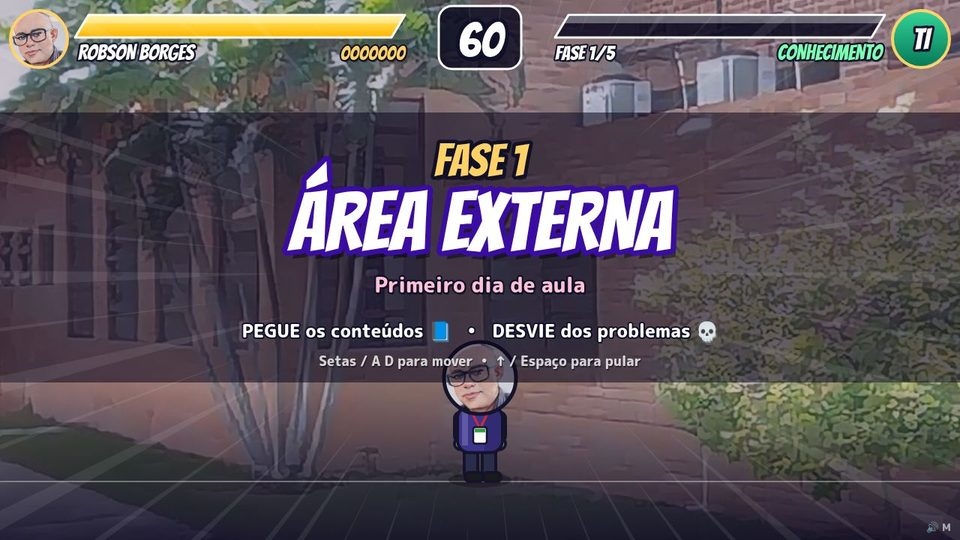
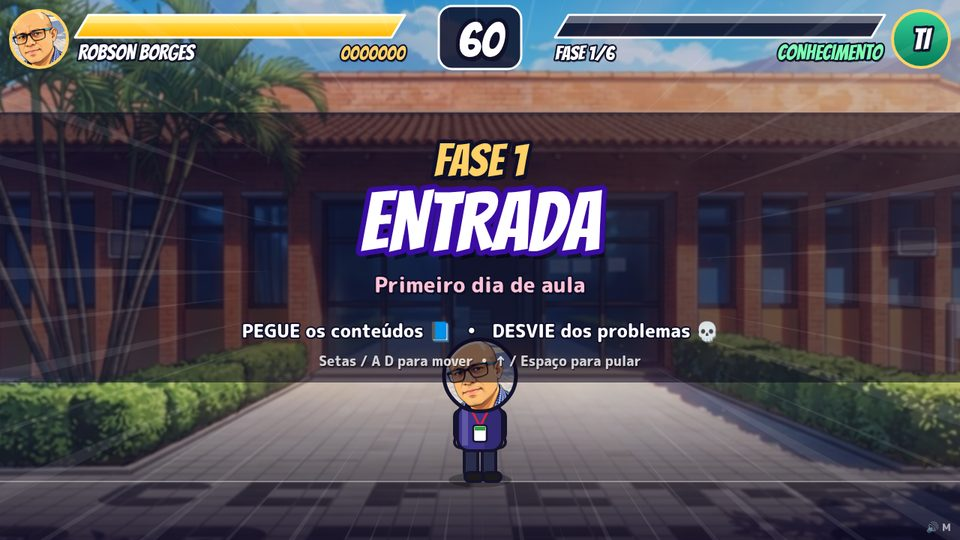
Atualiza o tutorial para a versão 2 do jogo
- Novas capturas de tela (título, seleção, fase, combo, fase
  concluída, quadro final e modo toque) com a arte em estilo mangá.
- Nova seção "Versão 2" no passo de imagens: comparativos versão 1 x
  versão 2 de retrato e cenário e o script Pillow de compressão.
- Texto, diagrama e estrutura de pastas ajustados para seis fases.
- Exemplos de dados.js e tabela de dificuldade atualizados
  (f de 0 a 5, valores da fase 6).

diff --git a/tutorial.html b/tutorial.html
@@ -327,7 +327,7 @@
     <!-- ============================================================ -->
     <section id="visao-geral">
       <h2>1. Visão geral</h2>
-      <p>O jogo funciona como um fliperama clássico. O jogador escolhe um professor, entra em uma fase ambientada na escola e precisa <strong>pegar os conteúdos das disciplinas</strong> (etiquetas verdes) enquanto <strong>desvia dos problemas</strong> (etiquetas vermelhas, como <code>BUG</code> e <code>Erro 404</code>). Quando a barra de <em>Conhecimento</em> enche, ele passa de fase. São cinco fases, e o jogo termina mostrando o quadro completo de professores.</p>
+      <p>O jogo funciona como um fliperama clássico. O jogador escolhe um professor, entra em uma fase ambientada na escola e precisa <strong>pegar os conteúdos das disciplinas</strong> (etiquetas verdes) enquanto <strong>desvia dos problemas</strong> (etiquetas vermelhas, como <code>BUG</code> e <code>Erro 404</code>). Quando a barra de <em>Conhecimento</em> enche, ele passa de fase. São seis fases, e o jogo termina mostrando o quadro completo de professores.</p>
       <div class="grade g3">
         <figure class="captura"><img src="assets/tutorial/titulo.jpg" alt="Tela de título" loading="lazy"><figcaption>Tela de título</figcaption></figure>
         <figure class="captura"><img src="assets/tutorial/selecao.jpg" alt="Tela de seleção de professor" loading="lazy"><figcaption>Seleção com painel de habilidades</figcaption></figure>
@@ -347,7 +347,7 @@
         <div class="cartao tec"><div class="icone">🎨</div><h4>Canvas 2D</h4><p>API de desenho do navegador. Todas as telas, personagens, barras e efeitos são desenhados com ela, 60 vezes por segundo.</p></div>
         <div class="cartao tec"><div class="icone">⚡</div><h4>JavaScript (ES2020+)</h4><p>Lógica do jogo sem frameworks: objetos, arrays, <code>Set</code>, <code>Map</code>, arrow functions, <code>async/await</code>.</p></div>
         <div class="cartao tec"><div class="icone">🔊</div><h4>Web Audio API</h4><p>Música e efeitos gerados por osciladores em tempo real. Não existe nenhum arquivo .mp3 no projeto.</p></div>
-        <div class="cartao tec"><div class="icone">🤖</div><h4>Python + IA (AnimeGAN)</h4><p>Redes neurais transformaram as fotos dos professores e da escola em ilustrações no estilo anime.</p></div>
+        <div class="cartao tec"><div class="icone">🤖</div><h4>IA generativa de imagens</h4><p>Na versão 1, redes AnimeGAN em Python transformaram as fotos em anime. Na versão 2, retratos e cenários foram refeitos com arte mais refinada, em estilo mangá.</p></div>
         <div class="cartao tec"><div class="icone">🔤</div><h4>Google Fonts</h4><p><em>Bangers</em> nos títulos, com cara de mangá, e <em>M PLUS Rounded 1c</em> nos textos.</p></div>
         <div class="cartao tec"><div class="icone">💾</div><h4>localStorage</h4><p>Guarda o recorde e a preferência de som no próprio navegador.</p></div>
         <div class="cartao tec"><div class="icone">🧪</div><h4>Chrome Headless</h4><p>Testes automáticos: um script abre o jogo sem janela, aperta teclas e tira capturas de tela.</p></div>
@@ -474,7 +474,7 @@
           </g>
           <g font-size="11.5" fill="#b9b1e0" text-anchor="middle">
             <text x="555" y="112">vitória → próxima fase</text>
-            <text x="880" y="92">5ª fase</text>
+            <text x="880" y="92">6ª fase</text>
             <text x="440" y="176" text-anchor="end">vida 0 ou tempo 0</text>
             <text x="260" y="130">ENTER</text>
             <text x="40" y="200">10 s</text>
@@ -492,8 +492,9 @@
 │   ├── audio.js          ← música e efeitos sintetizados
 │   └── jogo.js           ← motor do jogo
 └── assets/
-    ├── professores/      ← retratos em estilo anime (512×680)
-    └── cenarios/         ← fotos da escola em estilo anime</script></div>
+    ├── professores/      ← retratos em estilo mangá (600×800, JPG)
+    ├── cenarios/temp/    ← cenários do campus em estilo anime
+    └── tutorial/         ← imagens desta página</script></div>
     </section>
 
     <!-- ============================================================ -->
@@ -505,7 +506,7 @@
 
         <!-- 1 -->
         <div class="passo" id="p-imagens">
-          <h3>Transformar as fotos em anime com IA</h3>
+          <h3>Transformar as fotos em anime com IA (versão 1)</h3>
           <p class="arquivo">Python · PyTorch · onnxruntime</p>
           <p>A ideia era ter um visual de anime, sem pixel art. Um filtro comum de "desenho" não bastava, então usamos duas <strong>redes neurais generativas (GANs)</strong> já treinadas:</p>
           <ul>
@@ -534,7 +535,24 @@ with torch.no_grad():                                     # só inferência, sem
 
 y = ((y + 1) * 127.5).permute(1, 2, 0).byte().numpy()     # volta para 0..255
 Image.fromarray(y).save('assets/professores/fulano.jpg')</script></div>
-          <div class="atencao"><strong>Privacidade:</strong> as fotos originais e a planilha de horários <em>não</em> foram publicadas no site. Só as versões em anime vão para o repositório. Antes de publicar imagens de pessoas, peça autorização.</div>
+          <h4 style="margin-top:22px">Versão 2: arte refinada em estilo mangá</h4>
+          <p>Na segunda versão do jogo, os 14 retratos e os cenários foram refeitos com <strong>IA generativa de imagens</strong>. O traço ficou mais limpo, as cores mais vivas e os rostos mais fiéis às fotos. O campus também ganhou novos ambientes (Entrada, Área Verde, Garagem e Bloco J), e o jogo passou de cinco para <strong>seis fases</strong>.</p>
+          <div class="antes-depois">
+            <figure><img src="assets/tutorial/retrato-v1.jpg" alt="Retrato na versão 1, convertido com AnimeGAN" loading="lazy"><span class="rotulo">VERSÃO 1</span></figure>
+            <figure><img src="assets/tutorial/retrato-v2.jpg" alt="O mesmo professor na versão 2, em estilo mangá" loading="lazy"><span class="rotulo" style="color:var(--amarelo)">VERSÃO 2</span></figure>
+            <figure><img src="assets/tutorial/cenario-v1.jpg" alt="Estacionamento na versão 1" loading="lazy"><span class="rotulo">VERSÃO 1</span></figure>
+            <figure><img src="assets/tutorial/cenario-v2.jpg" alt="Estacionamento na versão 2, com mais detalhes" loading="lazy"><span class="rotulo" style="color:var(--amarelo)">VERSÃO 2</span></figure>
+          </div>
+          <p style="margin-top:14px">As imagens novas saíram em alta resolução (PNG de 1086×1448, cerca de 2 MB cada), pesadas demais para a web. Como o maior retrato aparece com 270×330 pixels no jogo, um pequeno script com <strong>Pillow</strong> reduz e recomprime tudo para JPG. O total caiu de ~32 MB para ~2,4 MB, e o jogo abre rápido até no celular:</p>
+          <div class="bloco-codigo" data-lang="python" data-titulo="comprimir.py"><script type="text/x-codigo">import glob
+from PIL import Image
+
+for arquivo in glob.glob('assets/professores/*_manga.png'):
+    img = Image.open(arquivo).convert('RGB')               # JPG não tem transparência
+    img = img.resize((600, 800), Image.LANCZOS)            # 2× o maior tamanho exibido
+    img.save(arquivo[:-4] + '.jpg', 'JPEG', quality=84, optimize=True, progressive=True)</script></div>
+          <div class="dica"><strong>Mesma proporção, zero código novo:</strong> os retratos novos mantêm a proporção 3:4 dos antigos. Por isso a função que recorta o rosto (<code>rosto(img)</code>), baseada em porcentagens da largura e da altura, continuou funcionando sem nenhuma alteração. Bastou trocar os caminhos em <code>dados.js</code>.</div>
+          <div class="atencao"><strong>Privacidade:</strong> as fotos originais, as versões em alta resolução e a planilha de horários <em>não</em> foram publicadas no site. Só as versões finais vão para o repositório. Antes de publicar imagens de pessoas, peça autorização.</div>
         </div>
 
         <!-- 2 -->
@@ -656,7 +674,7 @@ function atualizar(dt) {
           <div class="bloco-codigo" data-lang="javascript" data-titulo="js/dados.js"><script type="text/x-codigo">const PROFESSORES = [
   {
     nome: 'Justino',
-    foto: 'assets/professores/justino.jpg',
+    foto: 'assets/professores/Justino_manga.jpg',
     cor: '#2ec4b6',
     titulo: 'O Senhor dos Dados',
     habilidades: [
@@ -669,8 +687,8 @@ function atualizar(dt) {
 ];
 
 const FASES = [
-  { nome: 'Área Externa', subtitulo: 'Primeiro dia de aula', fundo: 'assets/cenarios/area-externa.jpg' },
-  // ...
+  { nome: 'Entrada', subtitulo: 'Primeiro dia de aula', fundo: 'assets/cenarios/temp/entrada.jpg' },
+  // ... mais 5 fases
 ];</script></div>
           <div class="dica"><strong>Boa prática:</strong> se chegar um professor novo, basta acrescentar um objeto ao array. A grade de seleção calcula sozinha quantas linhas e colunas precisa.</div>
         </div>
@@ -886,17 +904,17 @@ pegar: (combo) => {
         <div class="passo" id="p-fases">
           <h3>Fases e curva de dificuldade</h3>
           <p class="arquivo">js/jogo.js</p>
-          <p>Cada fase usa um cenário da escola e aumenta a dificuldade de forma gradual e previsível, com fórmulas lineares baseadas no número da fase <code>f</code> (0 a 4):</p>
+          <p>Cada fase usa um cenário da escola e aumenta a dificuldade de forma gradual e previsível, com fórmulas lineares baseadas no número da fase <code>f</code> (0 a 5):</p>
           <div class="tabela">
             <table>
-              <thead><tr><th>Parâmetro</th><th>Fórmula</th><th>Fase 1</th><th>Fase 5</th></tr></thead>
+              <thead><tr><th>Parâmetro</th><th>Fórmula</th><th>Fase 1</th><th>Fase 6</th></tr></thead>
               <tbody>
-                <tr><td>Intervalo entre itens</td><td><code>max(0.35, 0.85 − 0.1·f)</code> s</td><td>0,85 s</td><td>0,45 s</td></tr>
-                <tr><td>Chance de problema</td><td><code>min(0.55, 0.3 + 0.06·f)</code></td><td>30%</td><td>54%</td></tr>
-                <tr><td>Velocidade de queda</td><td><code>120…180 + 35·f</code> px/s</td><td>~150</td><td>~290</td></tr>
-                <tr><td>Conhecimento por acerto</td><td><code>7 − 0,5·f</code> %</td><td>7%</td><td>5%</td></tr>
-                <tr><td>Dano de um problema</td><td><code>18 + 2·f</code></td><td>18</td><td>26</td></tr>
-                <tr><td>Itens em zigue-zague</td><td>a partir da fase 3</td><td>—</td><td>~52%</td></tr>
+                <tr><td>Intervalo entre itens</td><td><code>max(0.35, 0.85 − 0.1·f)</code> s</td><td>0,85 s</td><td>0,35 s</td></tr>
+                <tr><td>Chance de problema</td><td><code>min(0.55, 0.3 + 0.06·f)</code></td><td>30%</td><td>55%</td></tr>
+                <tr><td>Velocidade de queda</td><td><code>120…180 + 35·f</code> px/s</td><td>~150</td><td>~325</td></tr>
+                <tr><td>Conhecimento por acerto</td><td><code>7 − 0,5·f</code> %</td><td>7%</td><td>4,5%</td></tr>
+                <tr><td>Dano de um problema</td><td><code>18 + 2·f</code></td><td>18</td><td>28</td></tr>
+                <tr><td>Itens em zigue-zague</td><td>a partir da fase 3</td><td>—</td><td>60%</td></tr>
               </tbody>
             </table>
           </div>
